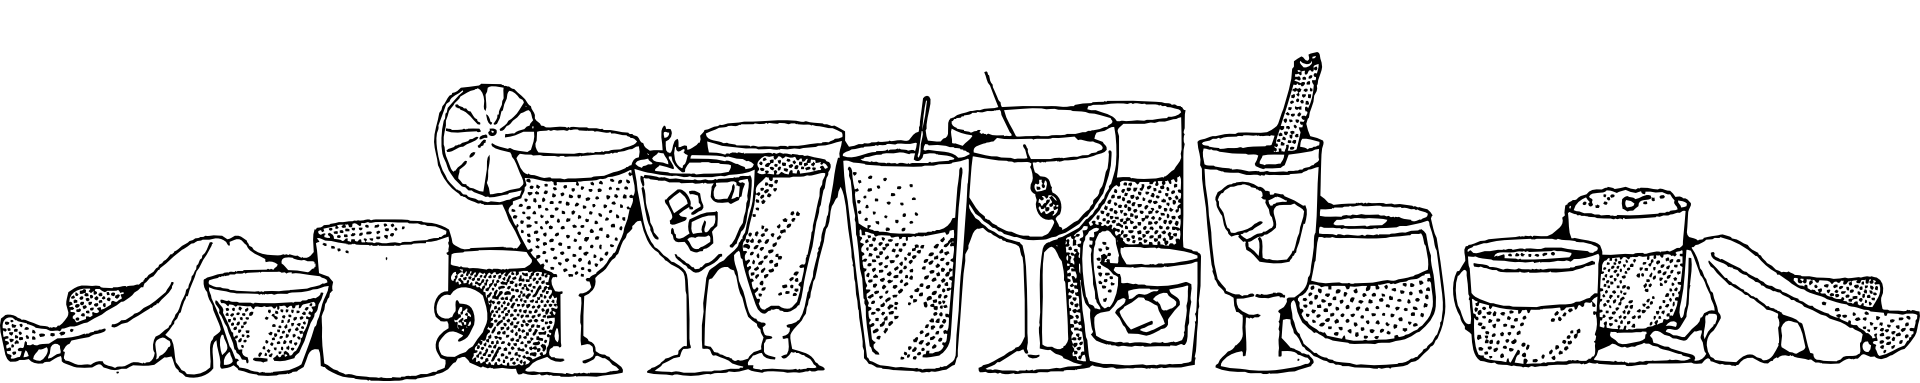
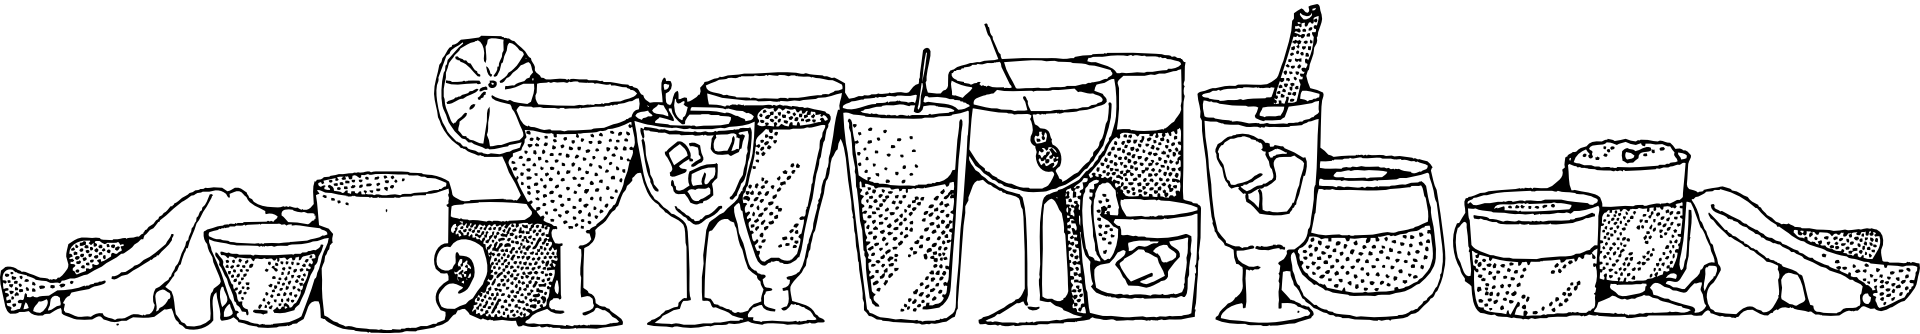
removed body padding, made image bigger, made button paddings smaller, added margin to result container, made result img smaller at larger screen sizes

Changed region(s): [[0.0, 0.0, 1.0, 1.0], [0.375, 0.2096, 0.4375, 0.2395]]

diff --git a/css/style.css b/css/style.css
@@ -54,7 +54,6 @@ body {
   width: 100vw;
   max-width: 100%;
   background-color: #f2f2f2;
-  padding: 1rem 0;
 }
 
 .wrapper {
@@ -64,13 +63,18 @@ body {
   text-align: center;
 }
 
+.title-img {
+  width: 30%;
+}
+
 h1 {
   margin: 0 0 1rem 0;
   font-family: 'Gloock', serif;
+  font-size: 3.5vw;
 }
 
 #input {
-  padding: 1rem;
+  padding: .5rem;
   border-radius: 5px;
   border: 1px solid #ccc;
   margin-bottom: 1rem;
@@ -79,7 +83,7 @@ h1 {
 }
 
 button {
-  padding: 1rem;
+  padding: .7rem;
   border-radius: 5px;
   border: none;
   background-color: #333;
@@ -95,7 +99,7 @@ button:hover {
 
 #random-btn {
   display: block;
-  margin: 1rem auto;
+  margin: 0 auto;
 }
 
 .hide {
@@ -105,7 +109,9 @@ button:hover {
 .show {
   display: initial;
 }
-
+#result-container {
+  margin: 1rem 0;
+}
 .row {
   display: flex;
   flex-wrap: wrap;
@@ -122,8 +128,23 @@ button:hover {
   text-align: right;
 }
 
-img {
-  width: 30vw;
+.img-result {
+  width: 40vw;
+}
+
+/*Where image starts overflowing vh */
+@media screen and (min-width: 865px) {
+  .img-result {
+    width: 37vw;
+  }
+
+}
+
+@media screen and (min-width: 920px) {
+  .img-result {
+    width: 31vw;
+  }
+
 }
 
 
